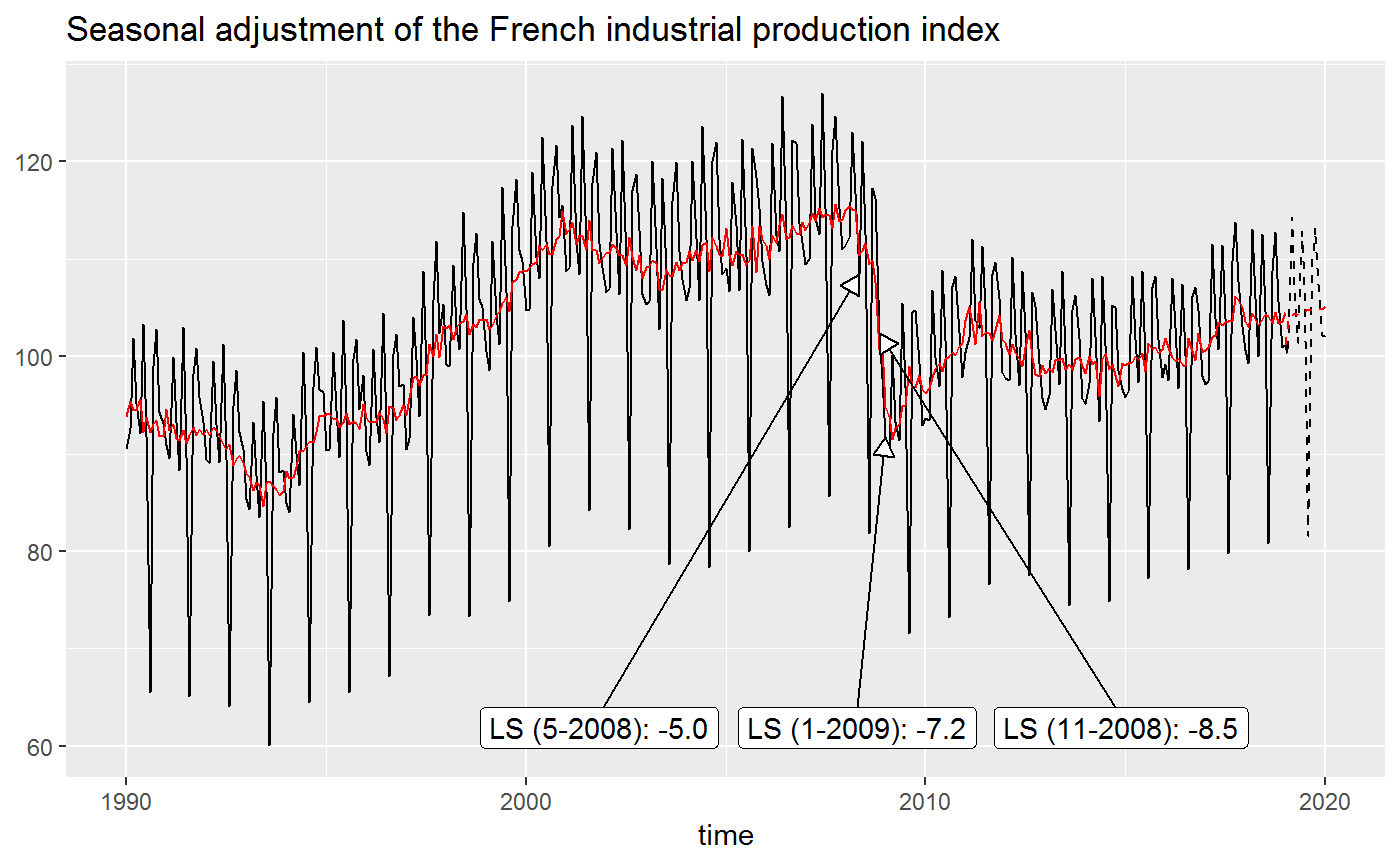
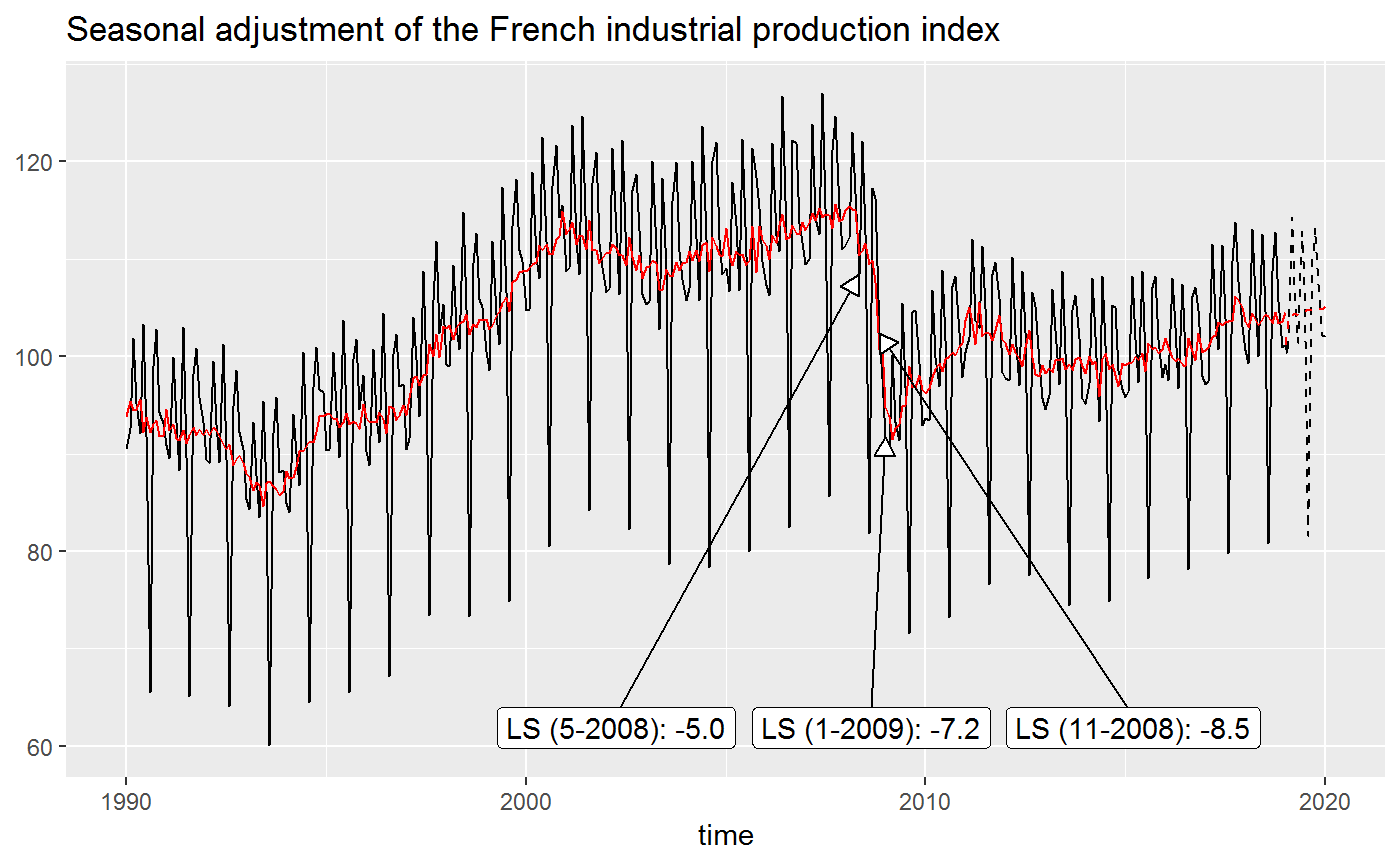
v0.1.2

diff --git a/README.md b/README.md
@@ -68,9 +68,9 @@ p_ipi_fr <- ggplot(data = ipi_c_eu_df, mapping = aes(x = date, y = FR)) +
     labs(title = "Seasonal adjustment of the French industrial production index",
          x = "time", y = NULL)
 p_sa <- p_ipi_fr +
-    geom_sa(component = "y_f", linetype = 2, message = TRUE) + 
-    geom_sa(component = "sa", color = "red", message = FALSE) +
-    geom_sa(component = "sa_f", color = "red", linetype = 2, message = FALSE)
+    geom_sa(component = "y_f", linetype = 2) + 
+    geom_sa(component = "sa", color = "red") +
+    geom_sa(component = "sa_f", color = "red", linetype = 2)
 p_sa
 ```
 
@@ -83,12 +83,10 @@ point and the estimate coefficient:
 p_sa + 
     geom_outlier(geom = "label_repel",
                  coefficients = TRUE,
-                 message = FALSE,
                  vjust = 4,
                  ylim = c(NA, 65), force = 10,
                  arrow = arrow(length = unit(0.03, "npc"),
                                type = "closed", ends = "last"))
-#> Frenquency used: 12
 ```
 
 <img src="man/figures/README-unnamed-chunk-4-1.png" style="display: block; margin: auto;" />
@@ -99,8 +97,7 @@ To add the ARIMA model:
 p_sa + 
     geom_arima(geom = "label",
                x_arima = -Inf, y_arima = -Inf, 
-               vjust = -1, hjust = -0.1,
-               message = FALSE)
+               vjust = -1, hjust = -0.1)
 #> Frenquency used: 12
 ```
 
@@ -114,13 +111,11 @@ diagnostics <- c(`Combined test` = "diagnostics.combined.all.summary",
                  `Residual f-test (p-value)` = "diagnostics.ftest")
 p_diag <- ggplot(data = ipi_c_eu_df, mapping = aes(x = date, y = FR)) +
     geom_diagnostics(diagnostics = diagnostics,
-                     table_theme = gridExtra::ttheme_default(base_size = 8),
-                     message = FALSE) + 
+                     table_theme = gridExtra::ttheme_default(base_size = 8)) + 
     theme_void()
     
 gridExtra::grid.arrange(p_sa, p_diag,
              nrow = 2, heights  = c(4, 1))
-#> Frenquency used: 12
 ```
 
 <img src="man/figures/README-unnamed-chunk-6-1.png" style="display: block; margin: auto;" />

diff --git a/NEWS.md b/NEWS.md
@@ -1,0 +1,5 @@
+# RJDemetra 0.1.2
+
+* If no new data or seasonal adjustment specification is specified (method or specification), these parameters is inherited from the previous defined (the season adjustment is then only done once).
+
+
